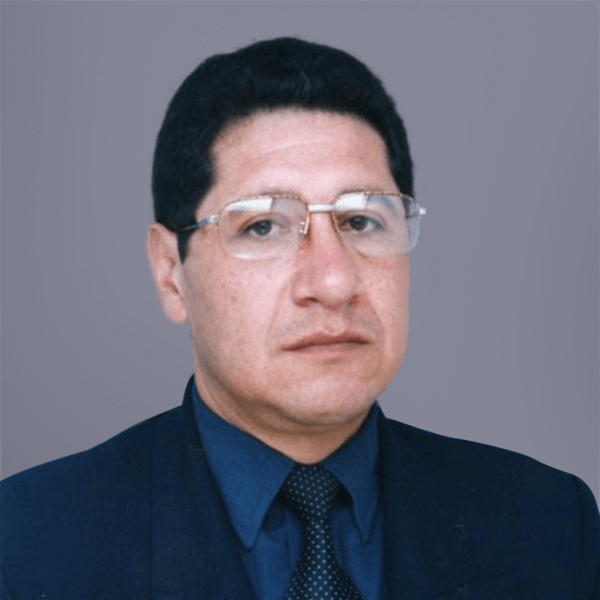
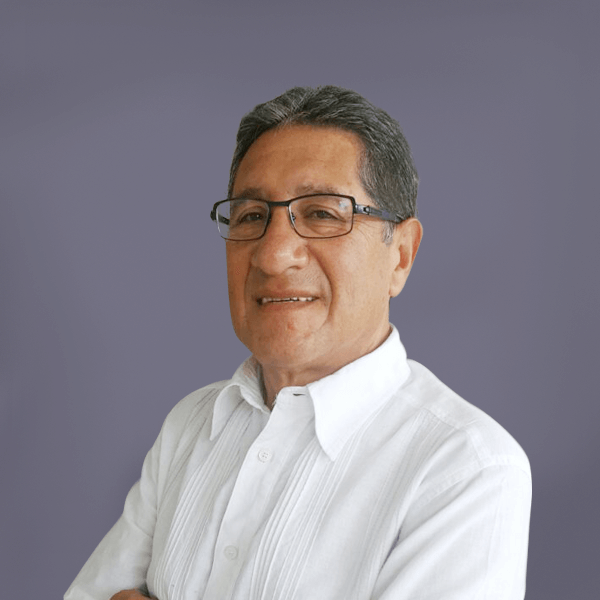
hechos los cambios, actualice foto de vicente, textos tildes añadimos sonido, estilos de menu

diff --git a/index.html b/index.html
@@ -13,7 +13,12 @@
 	<link rel="stylesheet" href="dest/css/estilos_desktop_large.css">
 	<link rel="stylesheet" href="dest/css/estilos_menu.css">
 	<link rel="stylesheet" href="dest/css/slideshows.css">
-	<link rel="shortcut icon" type="image/x-icon" href="assets/img/favicon.ico">
+	<link rel="apple-touch-icon" sizes="76x76" href="/apple-touch-icon.png">
+	<link rel="icon" type="image/png" sizes="32x32" href="/favicon-32x32.png">
+	<link rel="icon" type="image/png" sizes="16x16" href="/favicon-16x16.png">
+	<link rel="manifest" href="/manifest.json">
+	<link rel="mask-icon" href="/safari-pinned-tab.svg" color="#5bbad5">
+	<meta name="theme-color" content="#ffffff">
 	<link href="https://fonts.googleapis.com/css?family=Abril+Fatface|Source+Sans+Pro:400,600,700" rel="stylesheet">
 	<meta name="viewport" content="width=device-width, initial-scale=1, user-scalable=no">
 </head>
@@ -240,6 +245,22 @@
 		</div>
 		<div class="columns">
 			<figure class="equipo">
+				<img src="assets/img/vicente.png" alt="chente">
+				<figcaption>
+					<p>Vicente Bohórquez</p>
+					<div class="descripcion">
+						<p>
+							Experto en seguros y manejo del área comercial. Especialista en servicio al cliente, liderazgo y fuerza de ventas. Excelencia en ventas y formación de directores comerciales.
+						</p>
+						<a href="#vicenteBohorquez">
+							Leer más
+						</a>						
+					</div>
+				</figcaption>				
+			</figure>
+		</div>
+		<div class="columns">
+			<figure class="equipo">
 				<img src="assets/img/escorcia2k.png" alt="JuanDavid">
 				<figcaption>
 					<p>Juan David Escorcia</p>
@@ -254,22 +275,7 @@
 				</figcaption>				
 			</figure>
 		</div>
-		<div class="columns">
-			<figure class="equipo">
-				<img src="assets/img/vicente.png" alt="chente">
-				<figcaption>
-					<p>Vicente Bohorquez</p>
-					<div class="descripcion">
-						<p>
-							Experto en seguros y manejo del área comercial. Especialista en servicio al cliente, liderazgo y fuerza de ventas. Excelencia en ventas y formación de directores comerciales.
-						</p>
-						<a href="#vicenteBohorquez">
-							Leer más
-						</a>						
-					</div>
-				</figcaption>				
-			</figure>
-		</div>
+		
 		<div class="columns">
 			<figure class="equipo">
 				<img src="assets/img/gallo.png" alt="natalia">
@@ -325,7 +331,7 @@
 			<figure class="equipo">
 				<img src="assets/img/julian.png" alt="julian">
 				<figcaption>
-					<p>Julián Bohorquez</p>
+					<p>Julián Bohórquez</p>
 					<div class="descripcion">
 						<p>
 							
@@ -495,7 +501,7 @@
 	  <button data-remodal-action="close" class="remodal-close"></button>
 	  <img src=" assets/img/julian.png" alt="">
 	  <h3>
-	 	Julián Bohorquez
+	 	Julián Bohórquez
 	  </h3>
 	  <p>
 	   	Comunicador Social y Periodista de la Universidad Jorge Tadeo Lozano, con curso de Especialización en Alta Gerencia. Certificado como Corresponsal de guerra por el Ejército Nacional de Colombia, y en Habilidades Directivas por parte del CESA. Ponente en la 10 Bienal Internacional de Radio, México 2014.
@@ -526,7 +532,7 @@
 	  <button data-remodal-action="close" class="remodal-close"></button>
 	  <img src=" assets/img/vicente.png" alt="">
 	  <h3>
-	 	Vicente Bohorquez
+	 	Vicente Bohórquez
 	  </h3>
 	  <p>
 	   	Realizó estudios de Derecho en la Universidad La Gran Colombia y de Administración de Empresas en la Fundación Universitaria del Área Andina. Es técnico profesional en Seguros y Tecnólogo en Gestión Integral del Riesgo en Seguros. Ha realizado cursos y diplomados en  Gestión del Riesgo, Alta Gerencia, Administración Pública, Biodiversidad y Sostenibilidad, entre otros.

diff --git a/servicios.html b/servicios.html
@@ -9,7 +9,12 @@
 	<link rel="stylesheet" href="dest/css/estilos_desktop.css">
 	<link rel="stylesheet" href="dest/css/estilos_desktop_large.css">
 	<link rel="stylesheet" href="dest/css/estilos_menu.css">
-	<link rel="shortcut icon" type="image/x-icon" href="assets/img/favicon.ico">
+	<link rel="apple-touch-icon" sizes="76x76" href="/apple-touch-icon.png">
+	<link rel="icon" type="image/png" sizes="32x32" href="/favicon-32x32.png">
+	<link rel="icon" type="image/png" sizes="16x16" href="/favicon-16x16.png">
+	<link rel="manifest" href="/manifest.json">
+	<link rel="mask-icon" href="/safari-pinned-tab.svg" color="#5bbad5">
+	<meta name="theme-color" content="#ffffff">
 	<link href="https://fonts.googleapis.com/css?family=Abril+Fatface|Source+Sans+Pro:400,600,700" rel="stylesheet">
 	<meta name="viewport" content="width=device-width, initial-scale=1, user-scalable=no">
 </head>

diff --git a/dest/css/estilos_menu.css b/dest/css/estilos_menu.css
@@ -31,9 +31,16 @@
 #menu-desktop ul li a{
 	color: white;
 	display: block;
-	padding: 3vw 0;
-	font-weight: 400;
+	padding: 7vw 0;
 	font-size: 8vw;
+	text-align: left;
+	margin-left: 10vw;
+}
+
+#menu-desktop ul li a span{
+	font-weight: lighter;
+
+
 }
 
 #menu-desktop ul li a .item-dorso {
@@ -110,6 +117,7 @@
 		padding: 0;
 		font-weight: 700;
 		font-size: 16px;
+		margin: 0;
 	}
 
 	.hamburger{

diff --git a/src/css/estilos_menu.css b/src/css/estilos_menu.css
@@ -30,9 +30,16 @@
 #menu-desktop ul li a{
 	color: white;
 	display: block;
-	padding: 3vw 0;
-	font-weight: 400;
+	padding: 7vw 0;
 	font-size: 8vw;
+	text-align: left;
+	margin-left: 10vw;
+}
+
+#menu-desktop ul li a span{
+	font-weight: lighter;
+
+
 }
 
 #menu-desktop ul li a .item-dorso {
@@ -106,6 +113,7 @@
 		padding: 0;
 		font-weight: 700;
 		font-size: 16px;
+		margin: 0;
 	}
 
 	.hamburger{
